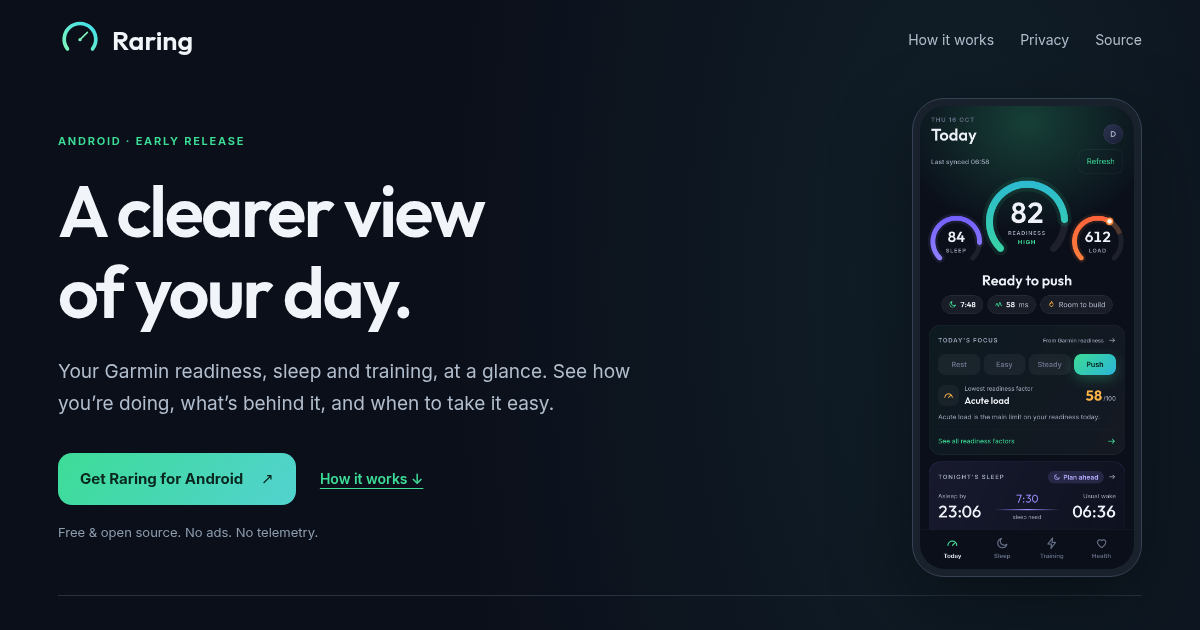
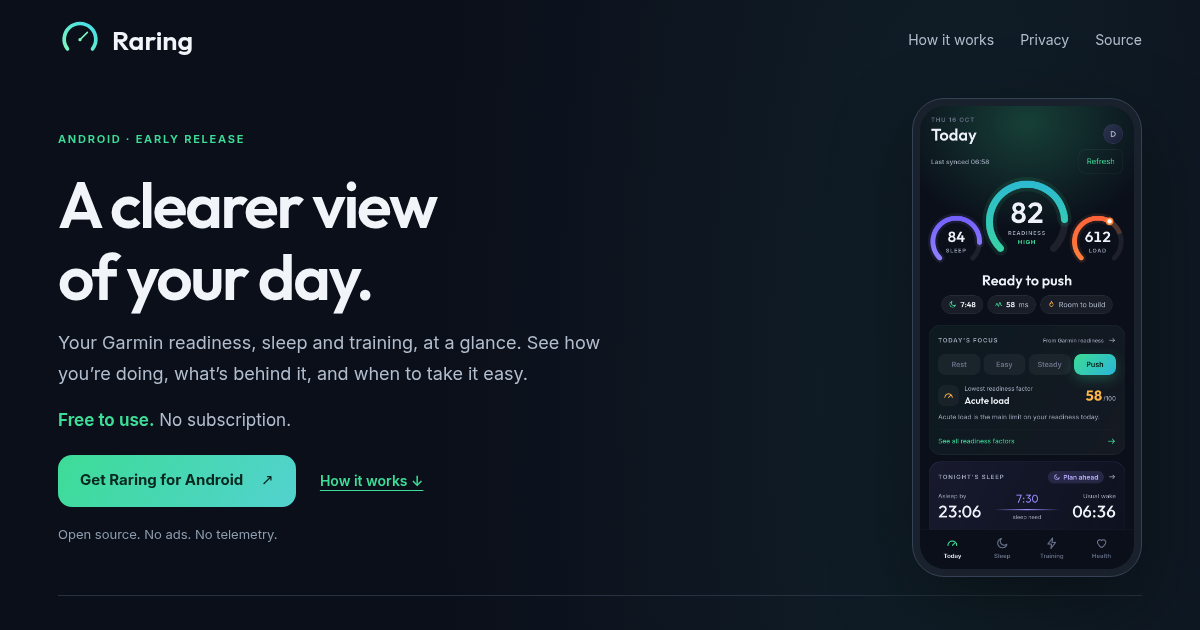
Show more app screens and emphasize free access

diff --git a/site/index.html b/site/index.html
@@ -3,12 +3,12 @@
 <head>
   <meta charset="utf-8">
   <meta name="viewport" content="width=device-width, initial-scale=1">
-  <meta name="description" content="A clearer view of your Garmin readiness, sleep and training. An independent, private, open-source Android app. No analytics, telemetry or ads.">
+  <meta name="description" content="A clearer view of your Garmin readiness, sleep and training. A free, private, open-source Android app. No subscription, analytics, telemetry or ads.">
   <meta name="theme-color" content="#0b0f1a">
   <meta name="referrer" content="no-referrer">
   <meta http-equiv="Content-Security-Policy" content="default-src 'none'; img-src 'self'; style-src 'self'; font-src 'self'; base-uri 'none'; form-action 'none'">
   <meta property="og:title" content="Raring — a clearer view of your day">
-  <meta property="og:description" content="Your Garmin readiness, sleep and training, at a glance. Private, open source and made for Android.">
+  <meta property="og:description" content="Your Garmin readiness, sleep and training, at a glance. Free to use, with no subscription. Private, open source and made for Android.">
   <meta property="og:type" content="website">
   <meta property="og:url" content="https://raring.app/">
   <meta property="og:image" content="https://raring.app/assets/social.png">
@@ -33,18 +33,37 @@
         <p class="eyebrow">Android · Early release</p>
         <h1 id="headline">A clearer view<br>of your day.</h1>
         <p class="lead">Your Garmin readiness, sleep and training, at a glance. See how you’re doing, what’s behind it, and when to take it easy.</p>
+        <p class="free-note"><strong>Free to use.</strong> No subscription.</p>
         <div class="actions"><a class="button" href="#install">Get Raring for Android <span aria-hidden="true">↗</span></a><a class="text-link" href="#how-it-works">How it works <span aria-hidden="true">↓</span></a></div>
-        <p class="quiet">Free &amp; open source. No ads. No telemetry.</p>
+        <p class="quiet">Open source. No ads. No telemetry.</p>
         <ul class="highlights" aria-label="What you can see">
           <li><span class="dot mint"></span><strong>Readiness</strong><span>Find today’s pace</span></li>
           <li><span class="dot violet"></span><strong>Sleep</strong><span>See your recovery</span></li>
           <li><span class="dot orange"></span><strong>Training</strong><span>Balance your load</span></li>
         </ul>
       </div>
-      <figure class="app-preview">
+      <div class="app-preview">
         <div class="phone-frame"><img src="assets/today.png" width="780" height="1688" alt="Raring’s Today screen with readiness, sleep and training load gauges, a daily focus and a sleep plan. All readings are sample data." fetchpriority="high"></div>
-        <figcaption>The app, with sample data</figcaption>
-      </figure>
+      </div>
+    </section>
+
+    <section class="section" aria-labelledby="screens-title">
+      <p class="eyebrow">Inside Raring</p>
+      <h2 id="screens-title">Your day, in detail.</h2>
+      <div class="screen-gallery" role="region" aria-label="App screenshots" tabindex="0">
+        <figure>
+          <figcaption><h3 class="sleep-label">Sleep</h3><p>Sleep stages, overnight readings and tonight’s plan.</p></figcaption>
+          <div class="phone-frame"><img src="assets/sleep.png" width="780" height="1688" alt="Sleep screen showing a sleep score, time asleep, sleep stages and overnight readings." loading="lazy" decoding="async"></div>
+        </figure>
+        <figure>
+          <figcaption><h3 class="training-label">Training</h3><p>Load, recovery and the balance of your training.</p></figcaption>
+          <div class="phone-frame"><img src="assets/training.png" width="780" height="1688" alt="Training screen showing acute load, training status, recovery time and load focus." loading="lazy" decoding="async"></div>
+        </figure>
+        <figure>
+          <figcaption><h3 class="health-label">Health</h3><p>Your vitals against your own usual ranges.</p></figcaption>
+          <div class="phone-frame"><img src="assets/health.png" width="780" height="1688" alt="Health screen showing resting heart rate, HRV, respiration, oxygen saturation and skin-temperature change against personal ranges." loading="lazy" decoding="async"></div>
+        </figure>
+      </div>
     </section>
 
     <section id="how-it-works" class="section" aria-labelledby="how-title">
@@ -65,7 +84,7 @@
     </section>
 
     <section id="install" class="section install" aria-labelledby="install-title">
-      <div><p class="eyebrow">Ready when you are</p><h2 id="install-title">Try Raring on Android.</h2><p>This is an early release for Android 7 or later on arm64 phones. You’ll need a Garmin account with synced watch data. Raring isn’t in the app stores.</p><a class="button" href="https://github.com/dcardamo/raring/releases/latest">Open the latest release <span aria-hidden="true">↗</span></a></div>
+      <div><p class="eyebrow">Ready when you are</p><h2 id="install-title">Get Raring. It’s free.</h2><p>This is an early release for Android 7 or later on arm64 phones. You’ll need a Garmin account with synced watch data. Raring isn’t in the app stores.</p><a class="button" href="https://github.com/dcardamo/raring/releases/latest">Open the latest release <span aria-hidden="true">↗</span></a></div>
       <div class="install-options">
         <h3>Install the APK</h3><p>Open the latest release, download the <strong>arm64 .apk</strong> under Assets, and open it on your phone. Android may ask you to allow your browser to install it. Future APKs install over the existing app.</p>
         <h3>Keep it updated with Obtainium</h3><p>In <a href="https://github.com/ImranR98/Obtainium#installation">Obtainium</a>, add this repository as an app:</p><code>https://github.com/dcardamo/raring</code><p>Obtainium can then find and install new GitHub releases.</p>

diff --git a/site/style.css b/site/style.css
@@ -24,7 +24,9 @@ nav a{color:var(--muted);text-decoration:none;font-size:14px;padding:10px 0}
 .hero{display:grid;grid-template-columns:minmax(0,1fr) 320px;align-items:center;gap:70px;padding:40px 0 72px}
 .eyebrow{font-size:11px;font-weight:650;letter-spacing:.16em;text-transform:uppercase;color:var(--mint);margin-bottom:20px}
 .lead{font-size:19px;line-height:1.7;margin-top:24px;max-width:500px}
-.actions{display:flex;align-items:center;gap:24px;flex-wrap:wrap;margin:32px 0 16px}
+.free-note{margin-top:24px;font-size:17px}
+.free-note strong{color:var(--mint);font-weight:650}
+.actions{display:flex;align-items:center;gap:24px;flex-wrap:wrap;margin:24px 0 16px}
 .button{display:inline-flex;align-items:center;justify-content:center;gap:18px;padding:14px 22px;min-height:52px;background:linear-gradient(125deg,#3ddc97,#52d2cf);color:#09271e;font-weight:700;font-size:15px;border-radius:14px;text-decoration:none;line-height:1.5;text-align:center}
 .button:hover{background:#a0f9d2;color:#09271e}
 .text-link{display:inline-block;font-size:14px;font-weight:600;padding:10px 0}
@@ -37,7 +39,12 @@ nav a{color:var(--muted);text-decoration:none;font-size:14px;padding:10px 0}
 .app-preview{width:100%;max-width:320px;justify-self:center}
 .phone-frame{padding:7px;background:#19212d;border:1px solid #354255;border-radius:32px;box-shadow:0 28px 80px #0006}
 .phone-frame img{border-radius:25px;width:100%}
-figcaption{text-align:center;font-size:11px;color:var(--quiet);margin-top:14px}
+.screen-gallery{display:grid;grid-template-columns:repeat(3,minmax(0,1fr));gap:32px;margin-top:32px}
+.screen-gallery:focus-visible{outline:2px solid var(--mint);outline-offset:6px;border-radius:8px}
+.screen-gallery figure{min-width:0;max-width:300px;justify-self:center}
+.screen-gallery figcaption{margin-bottom:24px;min-height:100px}
+.screen-gallery figcaption p{font-size:14px;margin-top:10px}
+.sleep-label{color:var(--violet)}.training-label{color:var(--orange)}.health-label{color:var(--mint)}
 .section{padding:64px 0;border-top:1px solid var(--line);scroll-margin-top:24px}
 .section-intro{max-width:630px;margin-top:20px}
 .steps{display:grid;grid-template-columns:repeat(3,minmax(0,1fr));gap:18px;list-style:none;padding:0;margin:32px 0 22px}
@@ -70,6 +77,7 @@ code{display:block;overflow-wrap:anywhere;padding:14px 16px;background:var(--car
 @media(max-width:900px){
  .hero{gap:30px;grid-template-columns:minmax(0,1fr) 270px}
  .steps{gap:12px}.steps li{padding:20px}
+ .screen-gallery{gap:20px}
  .privacy-card,.install{gap:32px}
 }
 @media(max-width:680px){
@@ -80,6 +88,9 @@ code{display:block;overflow-wrap:anywhere;padding:14px 16px;background:var(--car
  .hero{grid-template-columns:1fr;gap:40px;padding-top:40px;padding-bottom:48px}
  .lead{font-size:17px}.actions{gap:12px 24px}.highlights{margin-top:28px}
  .app-preview{max-width:290px}
+ .screen-gallery{grid-template-columns:none;grid-auto-flow:column;grid-auto-columns:min(82%,290px);overflow-x:auto;gap:20px;padding:6px 4px 20px;scroll-snap-type:x proximity;scrollbar-color:var(--line) var(--bg);scrollbar-width:thin}
+ .screen-gallery figure{scroll-snap-align:start}
+ .screen-gallery .phone-frame{box-shadow:none}
  .section{padding:42px 0}
  .steps{grid-template-columns:1fr;gap:14px;margin-top:26px}
  .steps li{padding:24px}.step-number{margin-bottom:12px}

diff --git a/README.md b/README.md
@@ -44,8 +44,9 @@ still publishes an APK).
 Local check: `nix develop -c bash -c 'cd app && npm run test:site'`.
 Preview: `nix develop -c python3 -m http.server 4174 --bind 0.0.0.0 --directory site`,
 then open `http://neptune:4174` from the tailnet.
-The sample screenshot comes from `cd app && npm run screenshots` inside the
-dev shell (`.data/screens/today.png`); never replace it with personal Garmin data.
+The app screenshots come from `cd app && npm run screenshots` inside the
+dev shell (`.data/screens/`). Copy only those synthetic images into `site/assets/`;
+never replace them with personal Garmin data.
 Fonts and their licenses are copied from `app/src/assets/fonts/`.
 
 The site has no analytics, but GitHub processes ordinary hosting and download
